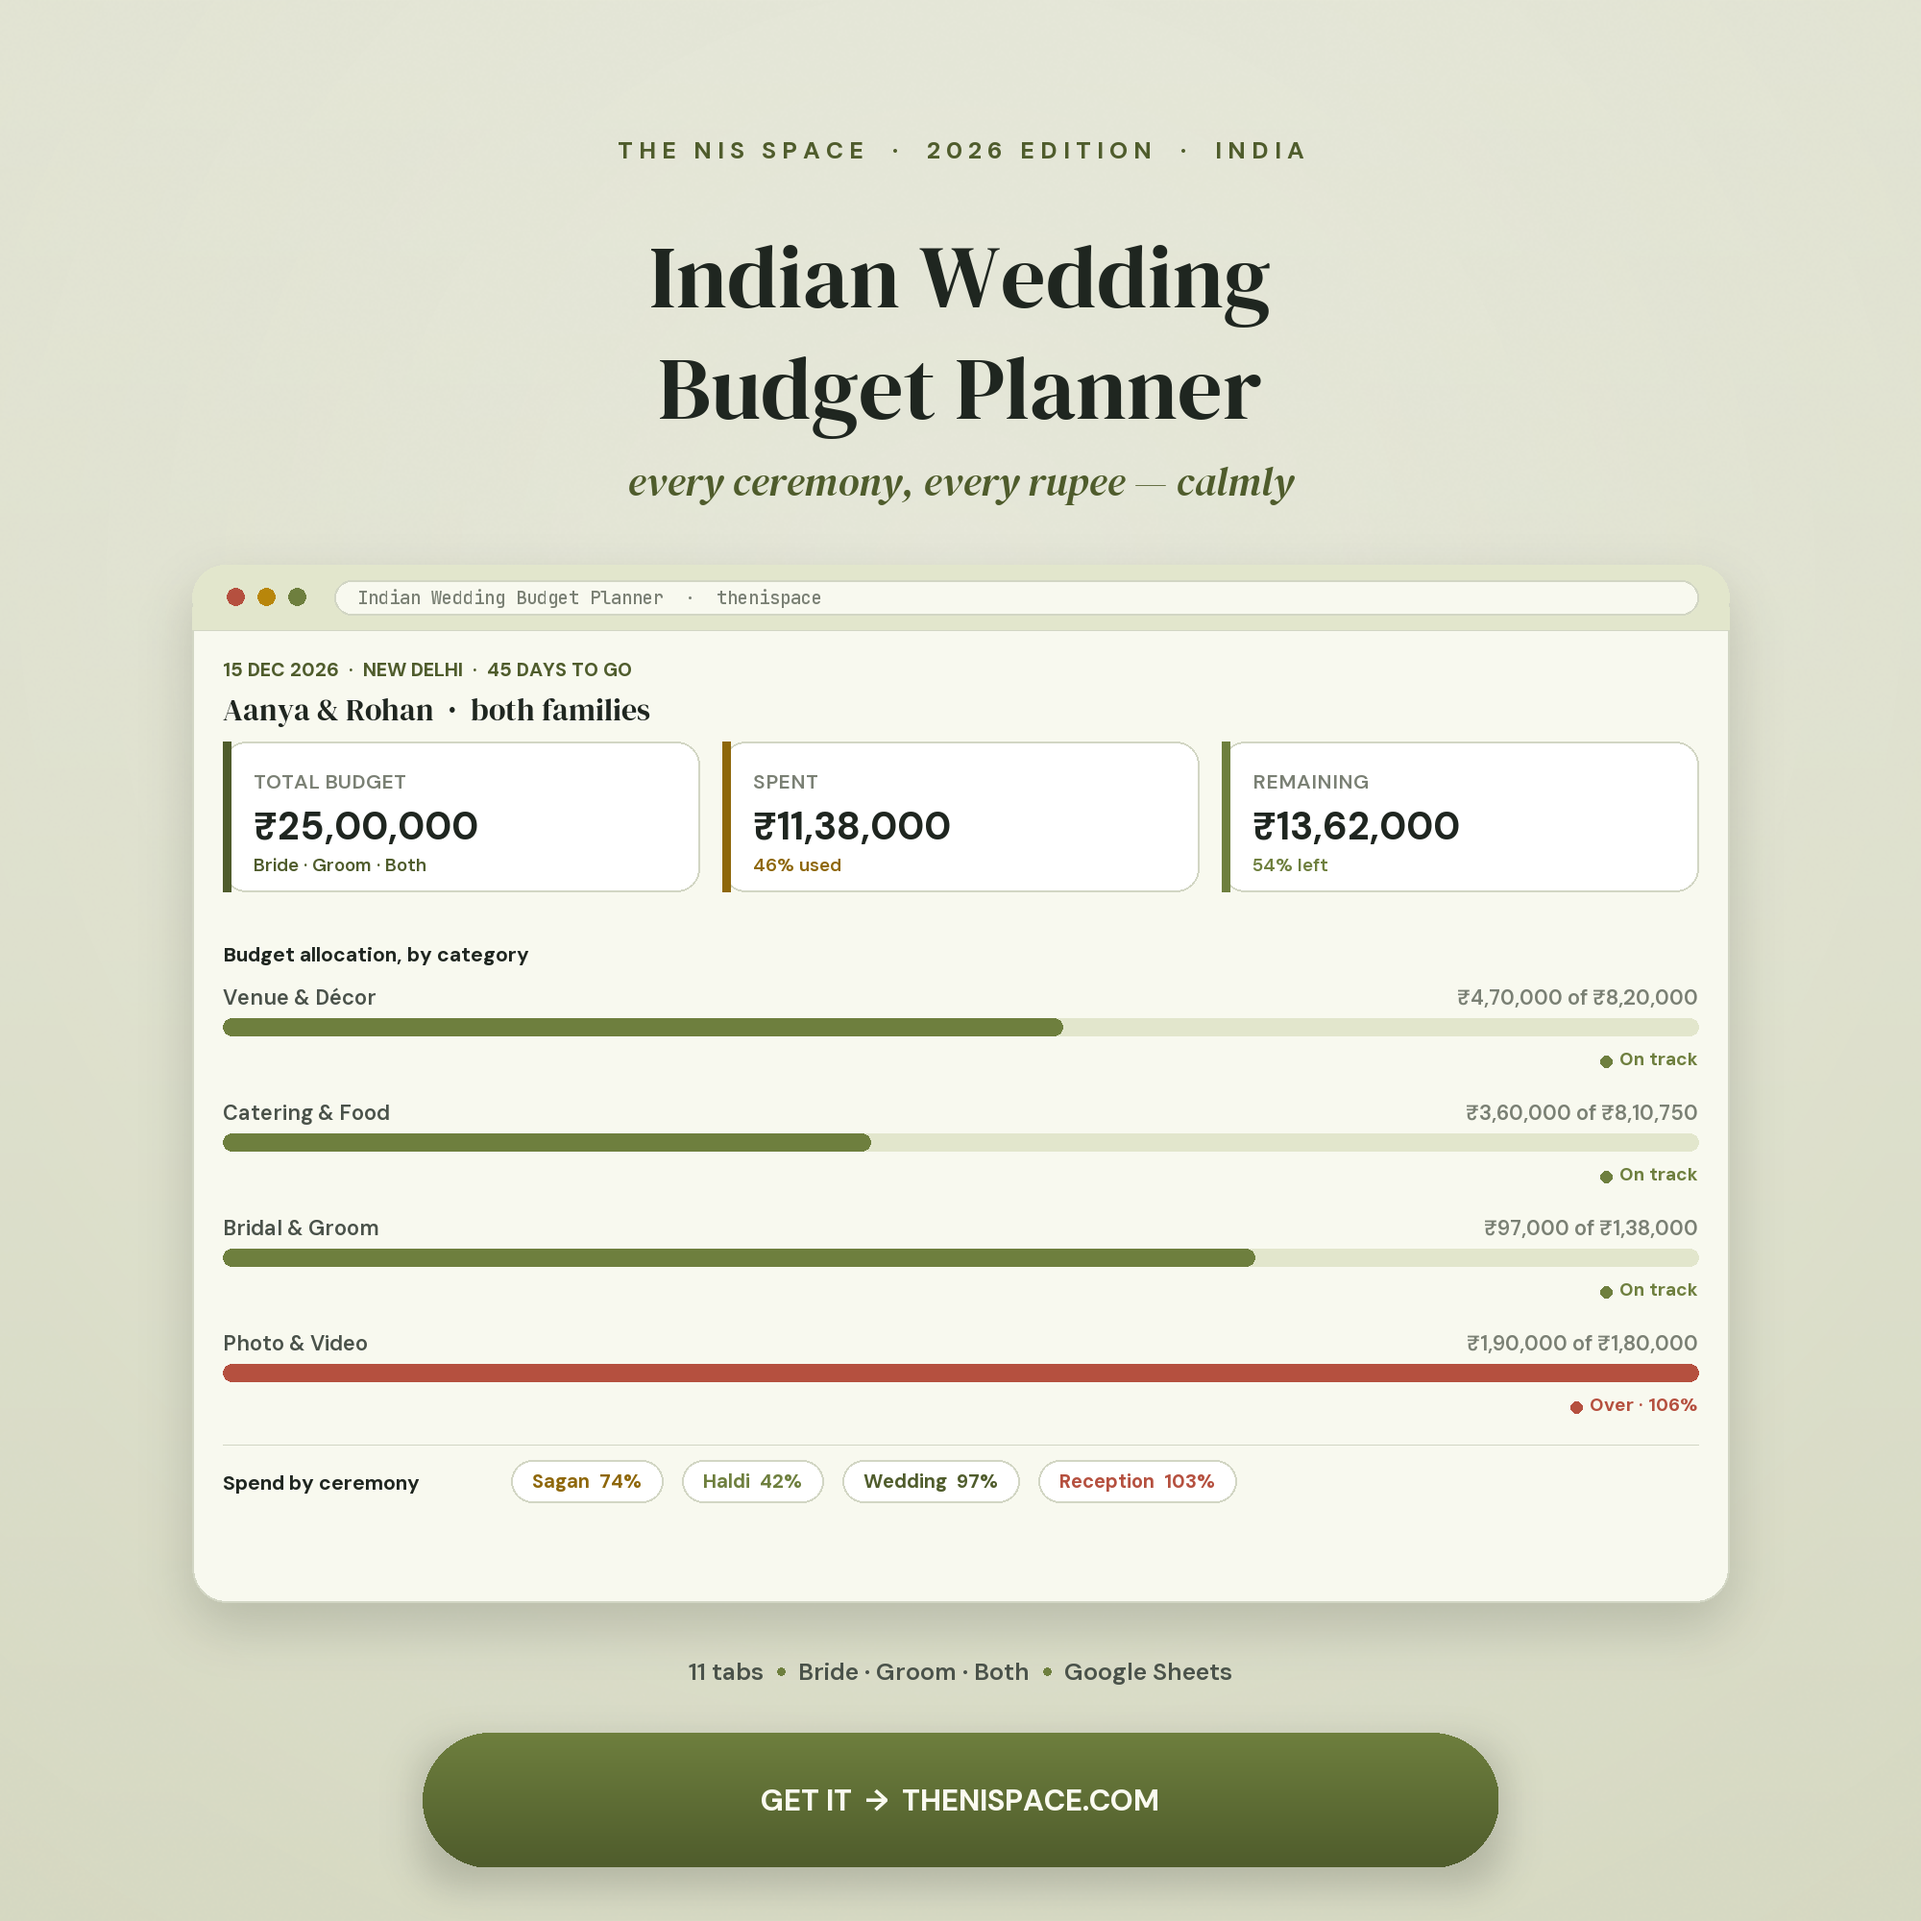
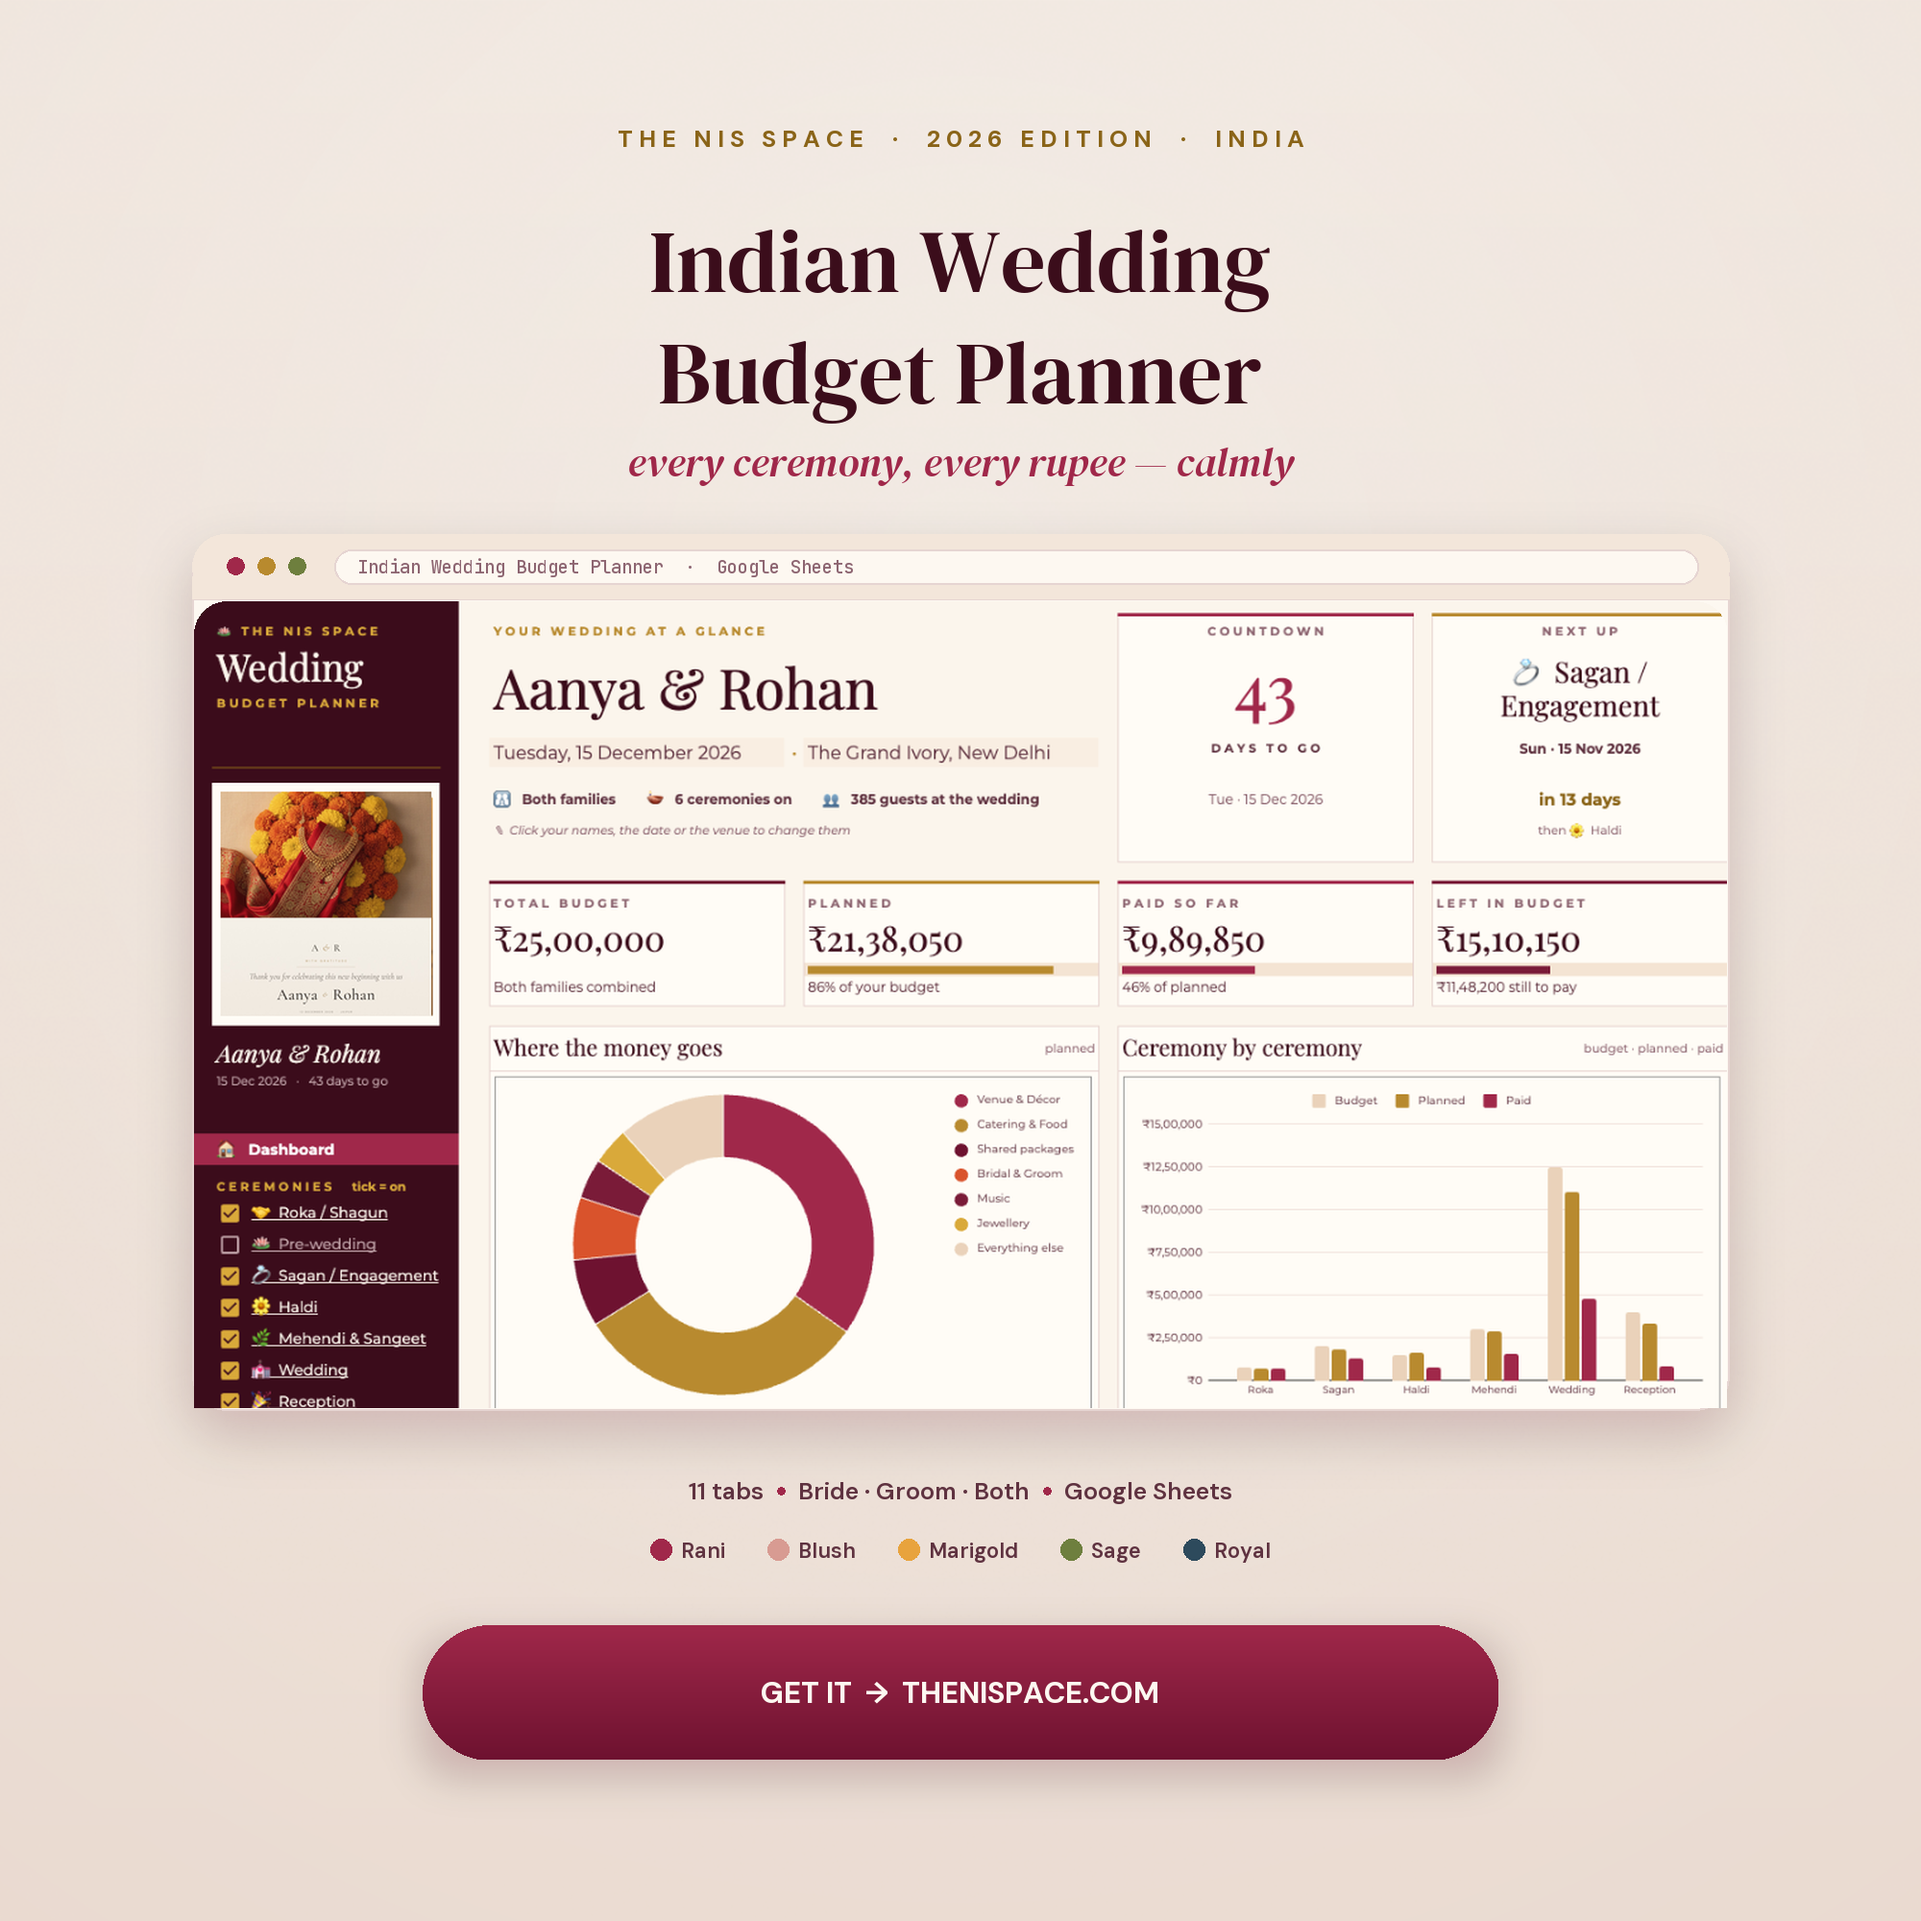
feat(web): wedding-budget cover + features for the planner's new look
The cover now shows a real screenshot of the planner's new Dashboard
(Rani theme, its shipped example data) and the five colour themes.
Feature list: countdown, what's next and charts on the dashboard;
Bride, Groom or Both; 5 colour themes (was 4).

diff --git a/apps/web/lib/nis-data.ts b/apps/web/lib/nis-data.ts
@@ -132,12 +132,12 @@ export const NIS_TRACKERS: Tracker[] = [
     price: 299, fileType: 'Google Sheet', pages: 11, unit: 'tabs', image: '/trackers/wedding-budget.png',
     desc: "A single, beautifully designed Google Sheet that does the wedding maths for you. Set your budget, tick the ceremonies you're having, and type real costs into each tab — everything rolls up into one live dashboard automatically. Pure Google Sheets: works the moment you copy it, on any device, yours forever. No app, no subscription.",
     features: [
-      'Live budget dashboard — auto-totals, progress bars and status',
+      'Live dashboard — countdown, what’s next, two charts and totals that update themselves',
       '7 ceremony tabs — Roka, Pre-wedding, Sagan, Haldi, Mehendi & Sangeet, Wedding, Reception',
       'Vendors & Payments log — advance, balance, due dates, GST',
       'Guest list & RSVP tracker',
       'Shagun & Neg ledger — every gift, lifafa and gold coin, and who you thanked',
-      'Bride / Groom split + 4 switchable colour themes',
+      'Bride, Groom or Both — plus 5 colour themes: Rani, Blush, Marigold, Sage, Royal',
     ],
   },
   {

diff --git a/apps/web/lib/tracker-catalog.ts b/apps/web/lib/tracker-catalog.ts
@@ -158,12 +158,12 @@ export const TRACKERS: Tracker[] = [
     // Repriced ₹899 → ₹299 (2026-07-28) as the "tracker alone" tier below the ₹999 Wedding Box.
     pricePaise: 29900,
     features: [
-      'Live budget dashboard — auto-totals, progress bars and status',
+      'Live dashboard — countdown, what’s next, two charts and totals that update themselves',
       '7 ceremony tabs — Roka, Pre-wedding, Sagan, Haldi, Mehendi & Sangeet, Wedding, Reception',
       'Vendors & Payments log — advance, balance, due dates, GST',
       'Guest list & RSVP tracker',
       'Shagun & Neg ledger — every gift, lifafa and gold coin, and who you thanked',
-      'Bride / Groom split + 4 switchable colour themes',
+      'Bride, Groom or Both — plus 5 colour themes: Rani, Blush, Marigold, Sage, Royal',
     ],
     audience: 'Indian families and couples planning a wedding.',
     fileType: 'gsheet',
